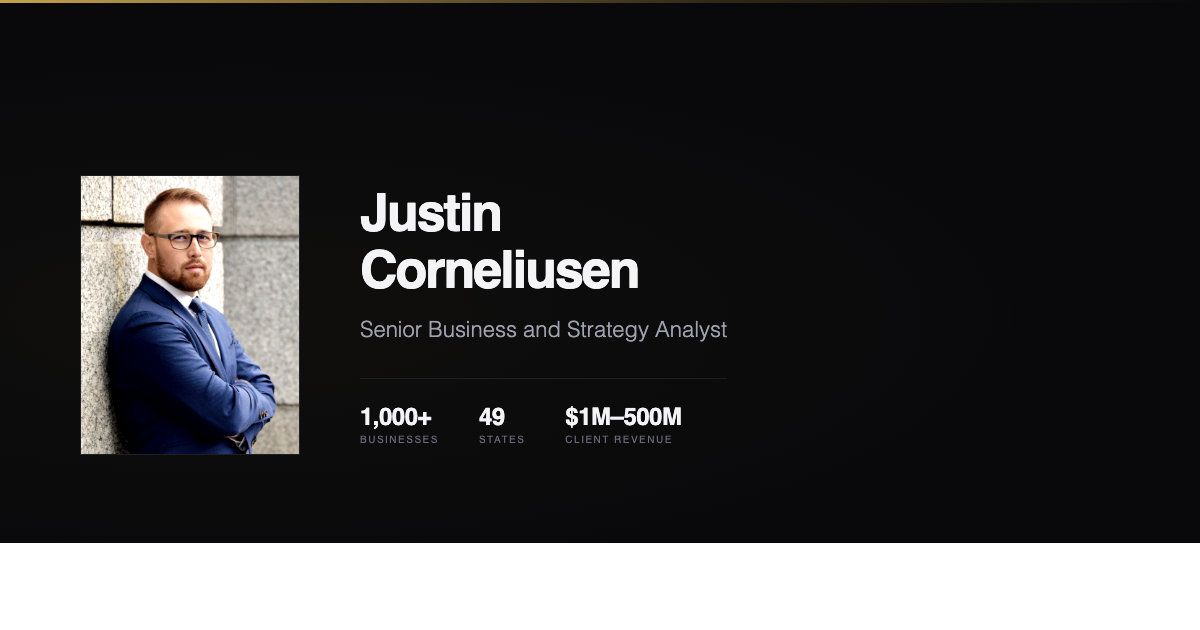
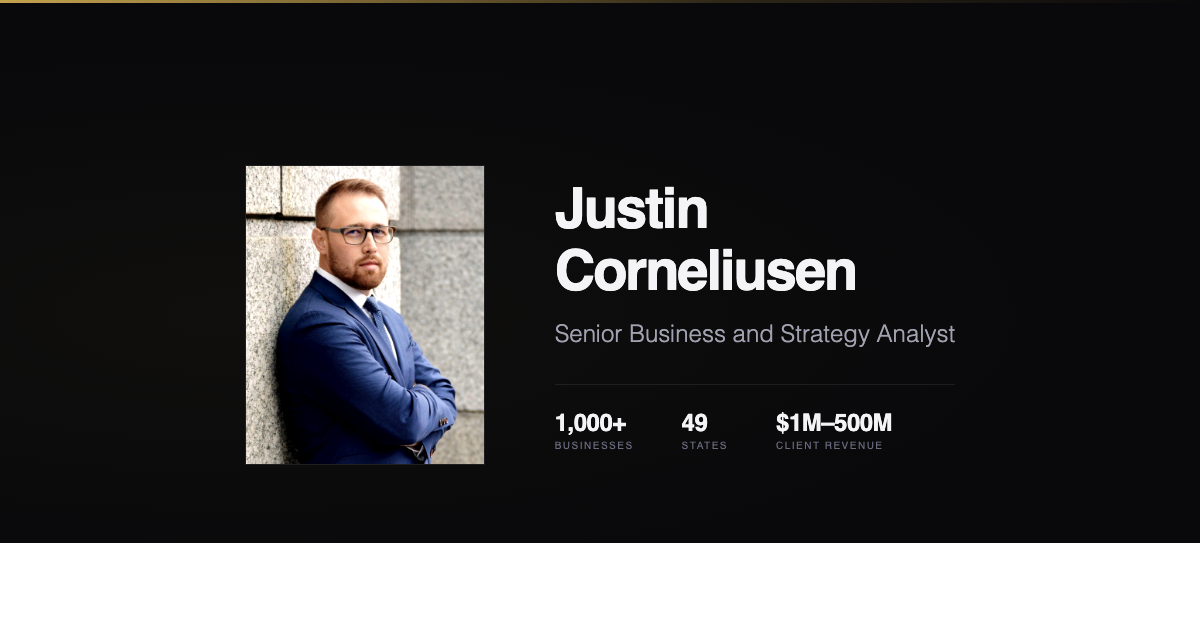
Update OG image with centered layout

diff --git a/og-image.html b/og-image.html
@@ -11,8 +11,9 @@
             background: #09090b;
             display: flex;
             align-items: center;
-            padding: 0 80px;
-            gap: 60px;
+            padding: 0 100px;
+            gap: 70px;
+            justify-content: center;
             font-family: -apple-system, 'Segoe UI', sans-serif;
             position: relative;
             overflow: hidden;
@@ -31,8 +32,8 @@
             background: radial-gradient(ellipse at 20% 50%, rgba(196,162,78,0.04) 0%, transparent 60%);
         }
         .photo {
-            width: 220px;
-            height: 280px;
+            width: 240px;
+            height: 300px;
             flex-shrink: 0;
             overflow: hidden;
             border: 1px solid rgba(255,255,255,0.08);
@@ -51,7 +52,7 @@
             z-index: 1;
         }
         .name {
-            font-size: 52px;
+            font-size: 56px;
             font-weight: 700;
             color: #f4f4f6;
             letter-spacing: -2px;
@@ -59,7 +60,7 @@
             margin-bottom: 16px;
         }
         .title {
-            font-size: 22px;
+            font-size: 24px;
             font-weight: 300;
             color: #a1a1b0;
             margin-bottom: 32px;
@@ -67,7 +68,7 @@
         }
         .stats {
             display: flex;
-            gap: 40px;
+            gap: 48px;
             border-top: 1px solid rgba(255,255,255,0.08);
             padding-top: 24px;
         }
